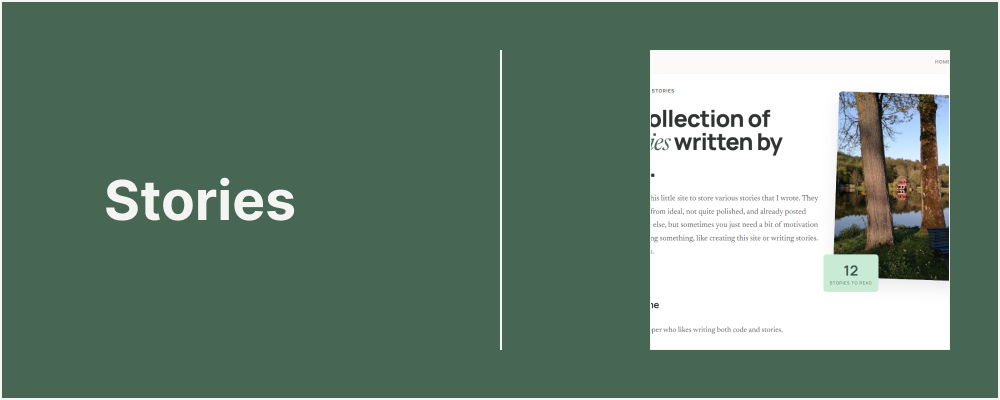
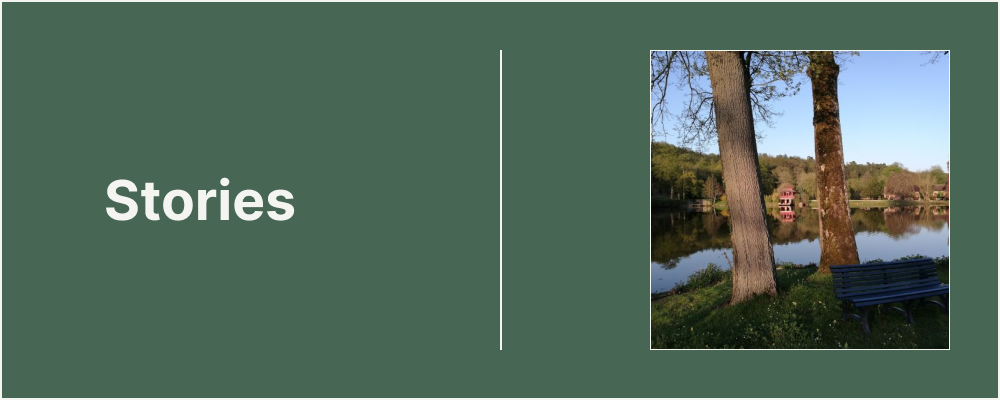
adjust hud-page images & footer elements

Changed region(s): [[0.651, 0.12, 0.961, 0.87]]

diff --git a/styles/hud-page.css b/styles/hud-page.css
@@ -335,7 +335,7 @@ ul {
   align-items: center;
   color: #101010;
   display: grid;
-  gap: 0.35rem;
+  gap: 0.25rem;
   grid-template-areas:
     "value"
     "icon"
@@ -734,7 +734,6 @@ ul {
 
   .hud-footer {
     align-items: stretch;
-    gap: 0.25rem;
     grid-template-columns: repeat(6, minmax(0, 1fr));
     grid-template-rows: auto auto;
     justify-items: stretch;
@@ -770,6 +769,7 @@ ul {
 
   .hud-footer__panel {
     height: 100%;
+    gap: 0.25rem;
     max-width: none;
     padding: 0.25rem;
     width: 100%;
@@ -785,7 +785,7 @@ ul {
   }
 
   .hud-footer__label {
-    font-size: 1rem;
+    font-size: 0.9rem;
   }
 
   .hud-footer__portrait-group {
@@ -801,6 +801,10 @@ ul {
 
   .hud-footer__project-grid {
     width: 100%;
+  }
+
+  .hud-footer__experience-list {
+    gap: 0.25rem;
   }
 
   .hud-footer__language-button,
